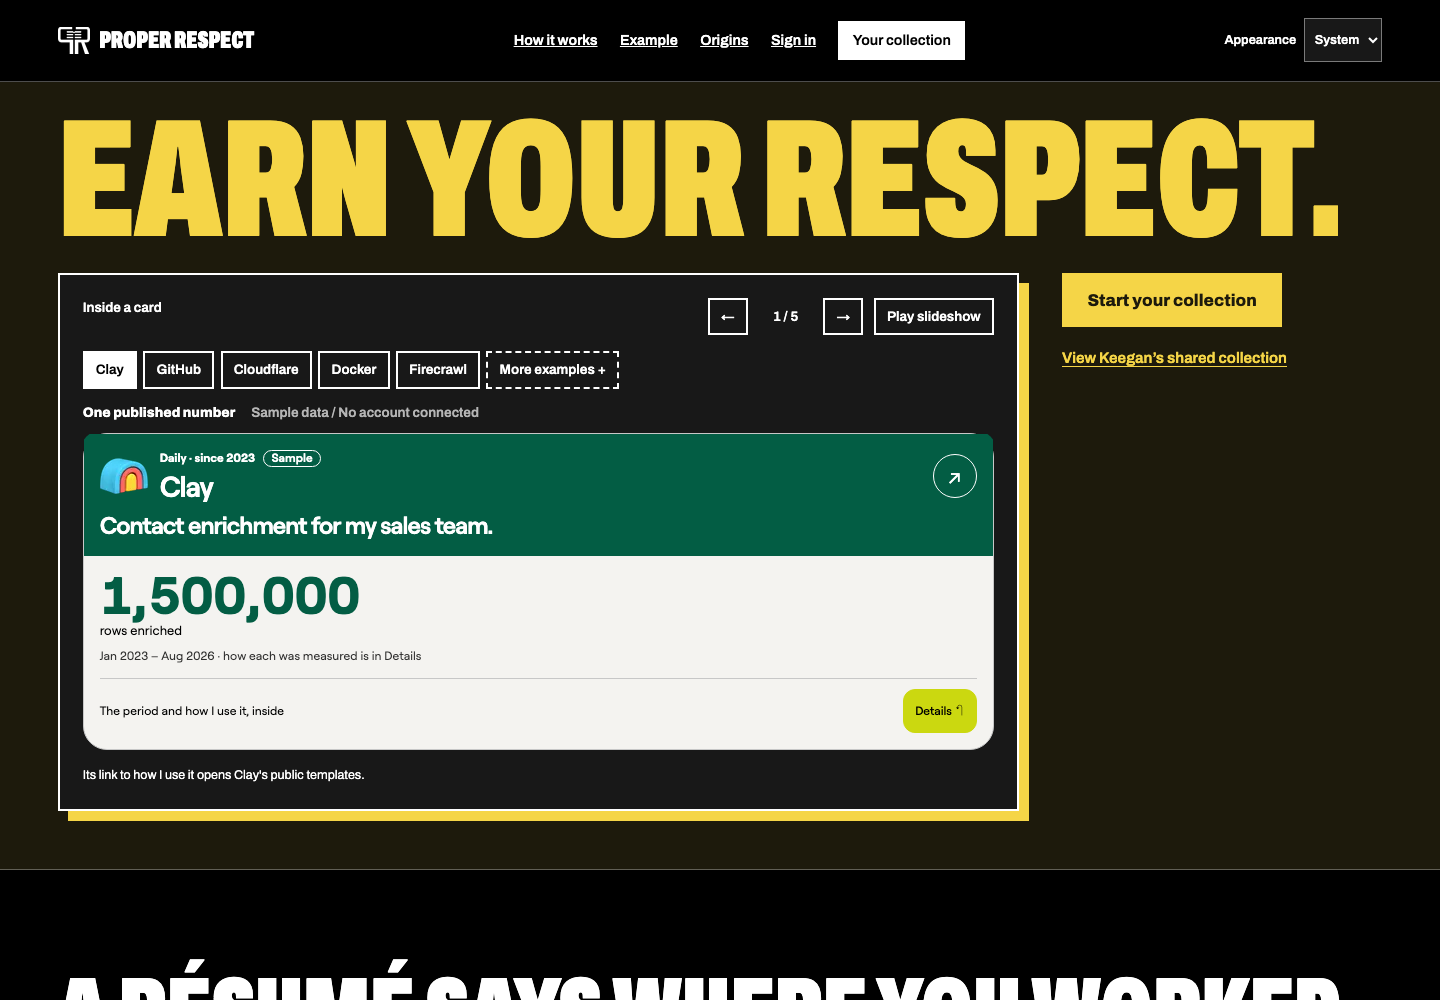
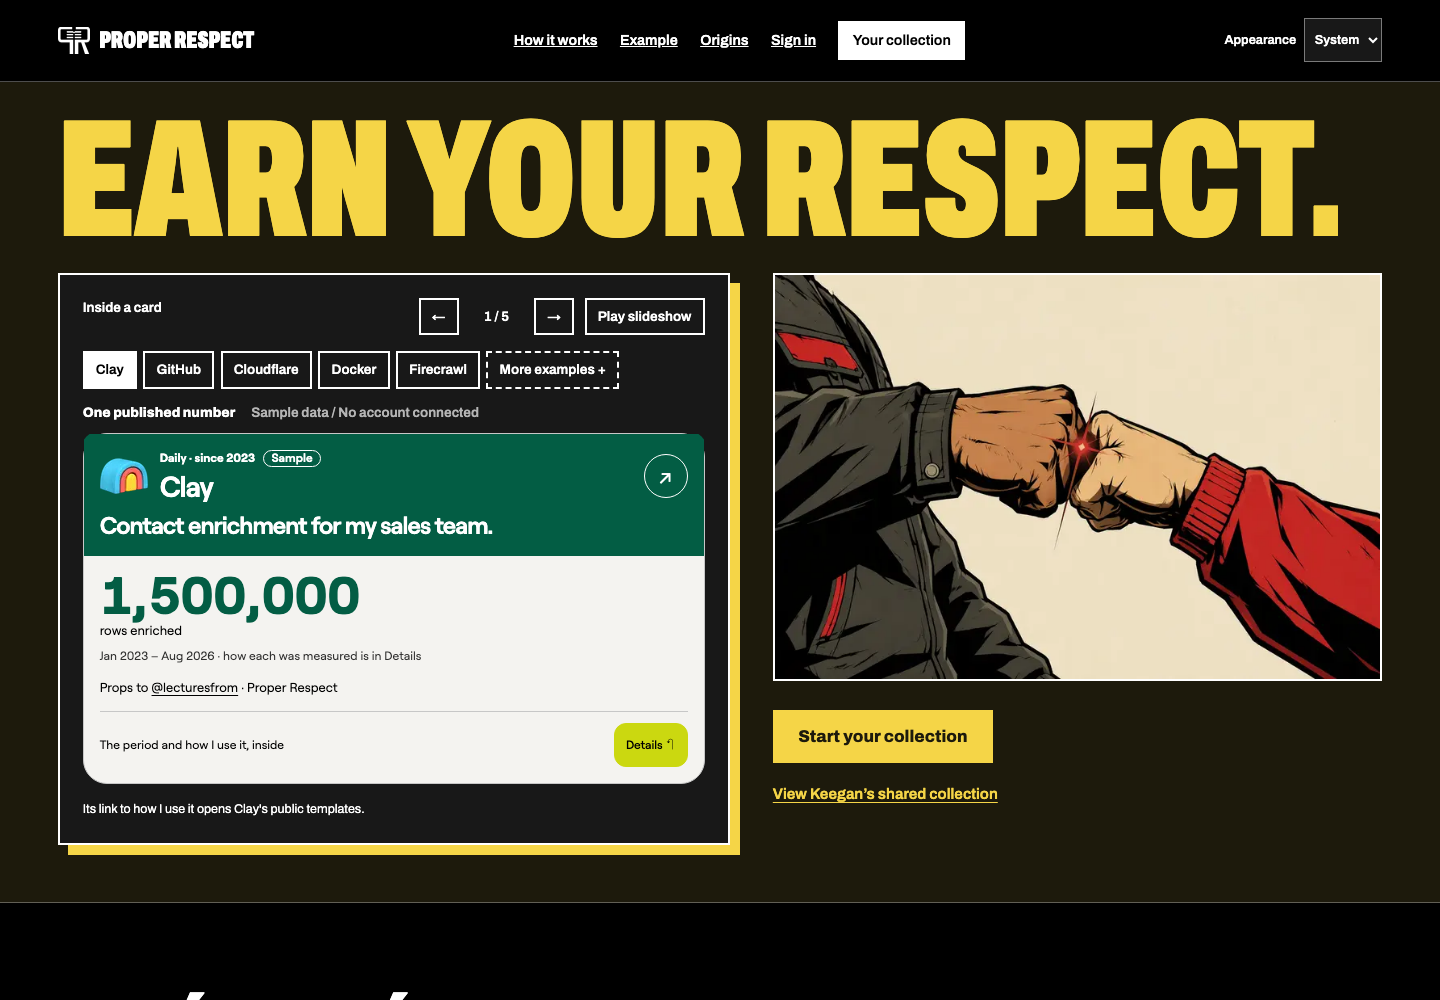
fix: set the example card at the width it was tuned for, with the fist bump beside it (#224)
With the props line from #221, n8n's back left a 26px empty band on the
wide hero card, over the 24px limit. The card column is 42rem again, so
every back closes up and the GitHub calendar returns to 8px days.

The fist-bump art moves into the first screen beside the card, above
the two actions. The props section below keeps its lines and its link.

diff --git a/app/homepage.module.css b/app/homepage.module.css
@@ -7,13 +7,13 @@
 .title, .statement { font-stretch: 62%; font-weight: 900; text-transform: uppercase; margin: 0; }
 
 .hero { background: var(--poster-field); color: var(--poster-ink); border-bottom: 1px solid var(--line); padding: clamp(.75rem, 2vw, 1.75rem) clamp(1rem, 4vw, 5rem) clamp(2rem, 4vw, 4rem);
-  display: grid; grid-template-columns: minmax(0, 3fr) minmax(0, 1fr); grid-template-areas: "title title" "example side"; gap: clamp(.75rem, 1.6vw, 1.5rem) clamp(1.5rem, 3vw, 3rem); align-items: start; }
+  display: grid; grid-template-columns: minmax(0, 42rem) minmax(0, 1fr); grid-template-areas: "title title" "example side"; gap: clamp(.75rem, 1.6vw, 1.5rem) clamp(1.5rem, 3vw, 3rem); align-items: start; }
 .hero a:focus-visible, .hero :global(button:focus-visible) { outline-color: var(--poster-ink); }
 /* One line across the sheet at every width: eighteen characters of this face run about 7.6 times its size. */
 .title { grid-area: title; font-size: clamp(2rem, 11.6vw, 13rem); line-height: .84; letter-spacing: -.005em; white-space: nowrap; }
 .example { grid-area: example; min-width: 0; padding: clamp(.75rem, 1.6vw, 1.5rem); background: var(--example-panel); color: var(--ink); border: 2px solid var(--ink); box-shadow: 10px 10px 0 var(--poster); }
 .example :global(.product-card) { width: 100%; }
-.hero > .actions { grid-area: side; }
+.side { grid-area: side; display: flex; flex-direction: column; gap: clamp(1.25rem, 2vw, 2rem); }
 
 .actions { display: flex; align-items: flex-start; gap: .9rem; flex-direction: column; }
 .primary { display: inline-flex; justify-content: center; align-items: center; min-height: 52px; padding: .9rem 1.4rem; border: 3px solid var(--ink); background: var(--ink); color: var(--action-text); font-weight: 800; font-size: 1.05rem; text-decoration: none; }
@@ -34,11 +34,11 @@
 
 .respect { background: var(--feature-background); color: var(--feature-text); padding: clamp(3rem, 7vw, 7rem) clamp(1rem, 4vw, 5rem); }
 .respect a:focus-visible { outline-color: var(--poster); }
-.respectInner { display: grid; grid-template-columns: minmax(0, 6fr) minmax(0, 5fr); gap: clamp(2rem, 5vw, 5rem); align-items: end; }
-.respectCopy .statement { color: var(--poster); }
-.respectCopy > p { max-width: 46ch; line-height: 1.65; font-size: 1.05rem; margin: clamp(1.5rem, 3vw, 2.5rem) 0 1.25rem; }
+.respectInner { display: grid; grid-template-columns: minmax(0, 1fr) minmax(0, 1fr); gap: clamp(2rem, 5vw, 5rem); align-items: end; }
+.respect .statement { color: var(--poster); }
+.respectCopy > p { max-width: 46ch; line-height: 1.65; font-size: 1.15rem; margin: 0 0 1.25rem; }
 .onDark { font-weight: 700; }
-.bump { display: block; width: 100%; height: auto; border: 3px solid var(--feature-text); }
+.bump { display: block; width: 100%; height: auto; border: 2px solid var(--ink); }
 
 .close .actions { margin-top: 2rem; }
 .privacy { font-size: .85rem; line-height: 1.6; color: var(--secondary); max-width: 52ch; margin: 1.5rem 0 0; }
@@ -52,6 +52,6 @@
 @media (max-width: 600px) {
   .hero { padding-top: .5rem; row-gap: .5rem; }
   .hero .example { padding: .5rem; }
-  .hero > .actions { margin-top: .75rem; }
+  .side { margin-top: .75rem; flex-direction: column-reverse; }
   .actions, .primary { width: 100%; }
 }

diff --git a/app/page.tsx b/app/page.tsx
@@ -20,11 +20,14 @@ export default function HomePage() {
       <main id="homepage-content" className={styles.main} tabIndex={-1}>
         <section className={styles.hero} aria-labelledby="homepage-title">
           <h1 id="homepage-title" className={styles.title}>{siteLine}</h1>
-          {/* Right after the heading, so a phone shows a card in its first screen; a wide screen sets the actions beside it. */}
+          {/* Right after the heading, so a phone shows a card in its first screen; a wide screen sets the art and the actions beside it. */}
           <div className={styles.example} id="example"><ProductExample examples={homepageExamples()} /></div>
-          <div className={styles.actions}>
-            <Link className={styles.primary} href="/app/collection">Start your collection</Link>
-            <Link className={styles.secondary} href="/lecturesfrom">View Keegan’s shared collection</Link>
+          <div className={styles.side}>
+            <Image className={styles.bump} src="/brand/homepage/bump-art.png" alt="Two fists meeting at a bright red diamond" width={1536} height={1024} sizes="(max-width: 900px) 100vw, 45vw" priority />
+            <div className={styles.actions}>
+              <Link className={styles.primary} href="/app/collection">Start your collection</Link>
+              <Link className={styles.secondary} href="/lecturesfrom">View Keegan’s shared collection</Link>
+            </div>
           </div>
         </section>
         <section id="how-it-works" className={styles.journey} aria-labelledby="journey-title">
@@ -35,12 +38,11 @@ export default function HomePage() {
         </section>
         <section className={styles.respect} aria-labelledby="respect-title">
           <div className={styles.respectInner}>
+            <h2 id="respect-title" className={styles.statement}>Give props.<br />Get props.</h2>
             <div className={styles.respectCopy}>
-              <h2 id="respect-title" className={styles.statement}>Give props.<br />Get props.</h2>
               <p>Proper Respect takes its name from giving someone their props. Here the props are for what you run and how long you have run it, on a record your peers can read.</p>
               <Link className={styles.onDark} href="/about/origins">Where the name comes from</Link>
             </div>
-            <Image className={styles.bump} src="/brand/homepage/bump-art.png" alt="Two fists meeting at a bright red diamond" width={1536} height={1024} sizes="(max-width: 900px) 100vw, 45vw" />
           </div>
         </section>
         <section className={styles.close} aria-labelledby="start-title">

diff --git a/tests/e2e/usage-examples.spec.ts b/tests/e2e/usage-examples.spec.ts
@@ -1206,7 +1206,7 @@ for (const width of [DESKTOP_WIDTH, PHONE_WIDTH]) test(`the featured cards carry
   expect([looks.Clay.panel, looks.Docker.panel, looks.GitHub.panel]).toEqual([undefined, undefined, "rgb(255, 255, 255)"]);
 });
 
-test("GitHub's calendar draws 10px days with 3px gaps at 1440px, says on a phone that it scrolls, and reads as one summary line", async ({ page }) => {
+test("GitHub's calendar draws 8px days with 2px gaps at 1440px, says on a phone that it scrolls, and reads as one summary line", async ({ page }) => {
   await page.setViewportSize({ width: DESKTOP_WIDTH, height: VIEWPORT_HEIGHT });
   await page.emulateMedia({ reducedMotion: "reduce" });
   await page.goto("/");
@@ -1218,7 +1218,7 @@ test("GitHub's calendar draws 10px days with 3px gaps at 1440px, says on a phone
     return { size: Math.round(first.width), gap: Math.round(second.top - first.bottom), radius: getComputedStyle(element.querySelector("[data-date]")!).borderRadius,
       scrolls: element.querySelector(".contribution-scroll")!.scrollWidth > element.querySelector(".contribution-scroll")!.clientWidth };
   });
-  expect(cells).toEqual({ size: 10, gap: 3, radius: "2px", scrolls: false });
+  expect(cells).toEqual({ size: 8, gap: 2, radius: "2px", scrolls: false });
   // One line for a screen reader, not 365 images.
   await expect(calendar.getByRole("img")).toHaveCount(0);
   await expect(calendar.locator(".contribution-summary")).toHaveText(/^\d[\d,]* contributions from 1 Sep 2025 to 31 Aug 2026, on \d+ of 365 days; the most in a day was \d+, on \d+ \w+ \d{4}\.$/);

diff --git a/docs/verification/2026-11-16-earn-your-respect-revamp/README.md b/docs/verification/2026-11-16-earn-your-respect-revamp/README.md
@@ -22,7 +22,9 @@ All data here is synthetic: homepage sample cards and the fixture profile in ref
 | `before-origins-1440.png` | Origins on `9eb44a6`. |
 | `after-origins-1440-first-screen.png` | Origins with its rail of About pages. Captured before the owner struck the large quote the same day; the page no longer shows it. |
 
-The measurements under Targets were taken on the first round. The second round changed colours, the header and the About rail, and the browser specs for those pages passed again after it (174 tests across eight spec files; one theme test failed once and passed on three repeats).
+After `main` brought in the props line (#221), one sample card's back left a 26px gap on the wide hero card, over its 24px limit. The card column is now 42rem wide, as the cards were tuned for, and the fist-bump art sits beside it. Measured again at 1440×1000: card tops 433px; bottoms Clay 784px, GitHub 922px, Cloudflare 920px, Docker 805px, Firecrawl 877px. At 390×844 the card starts at 230px.
+
+The other measurements under Targets were taken on the first round. The second round changed colours, the header and the About rail, and the browser specs for those pages passed again after it (174 tests across eight spec files; one theme test failed once and passed on three repeats).
 
 ## Targets
 
